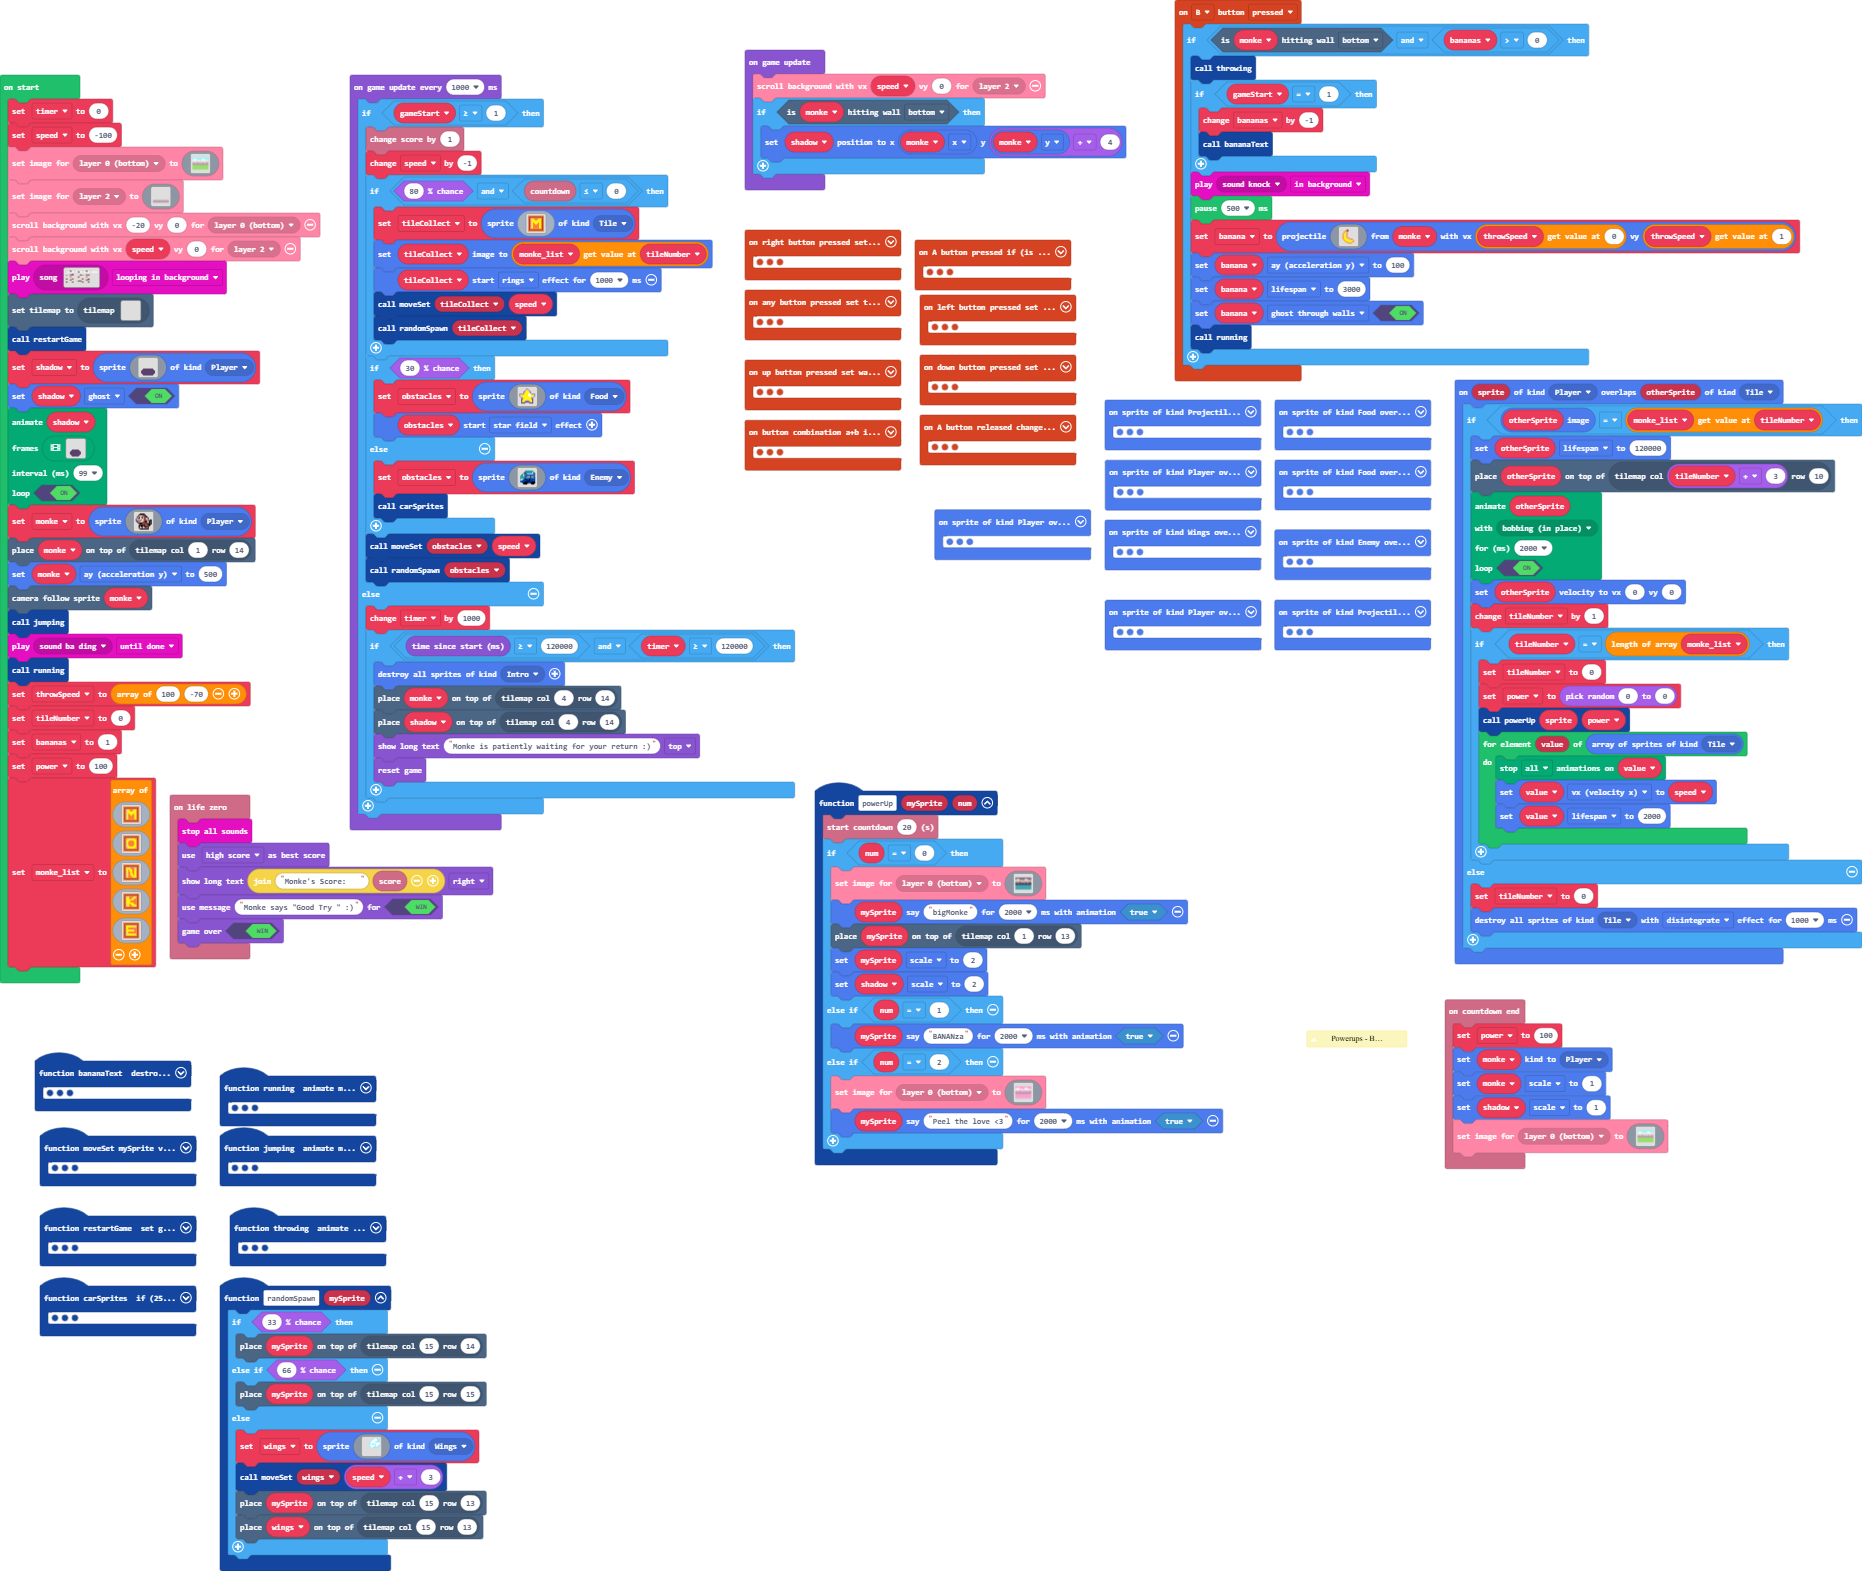
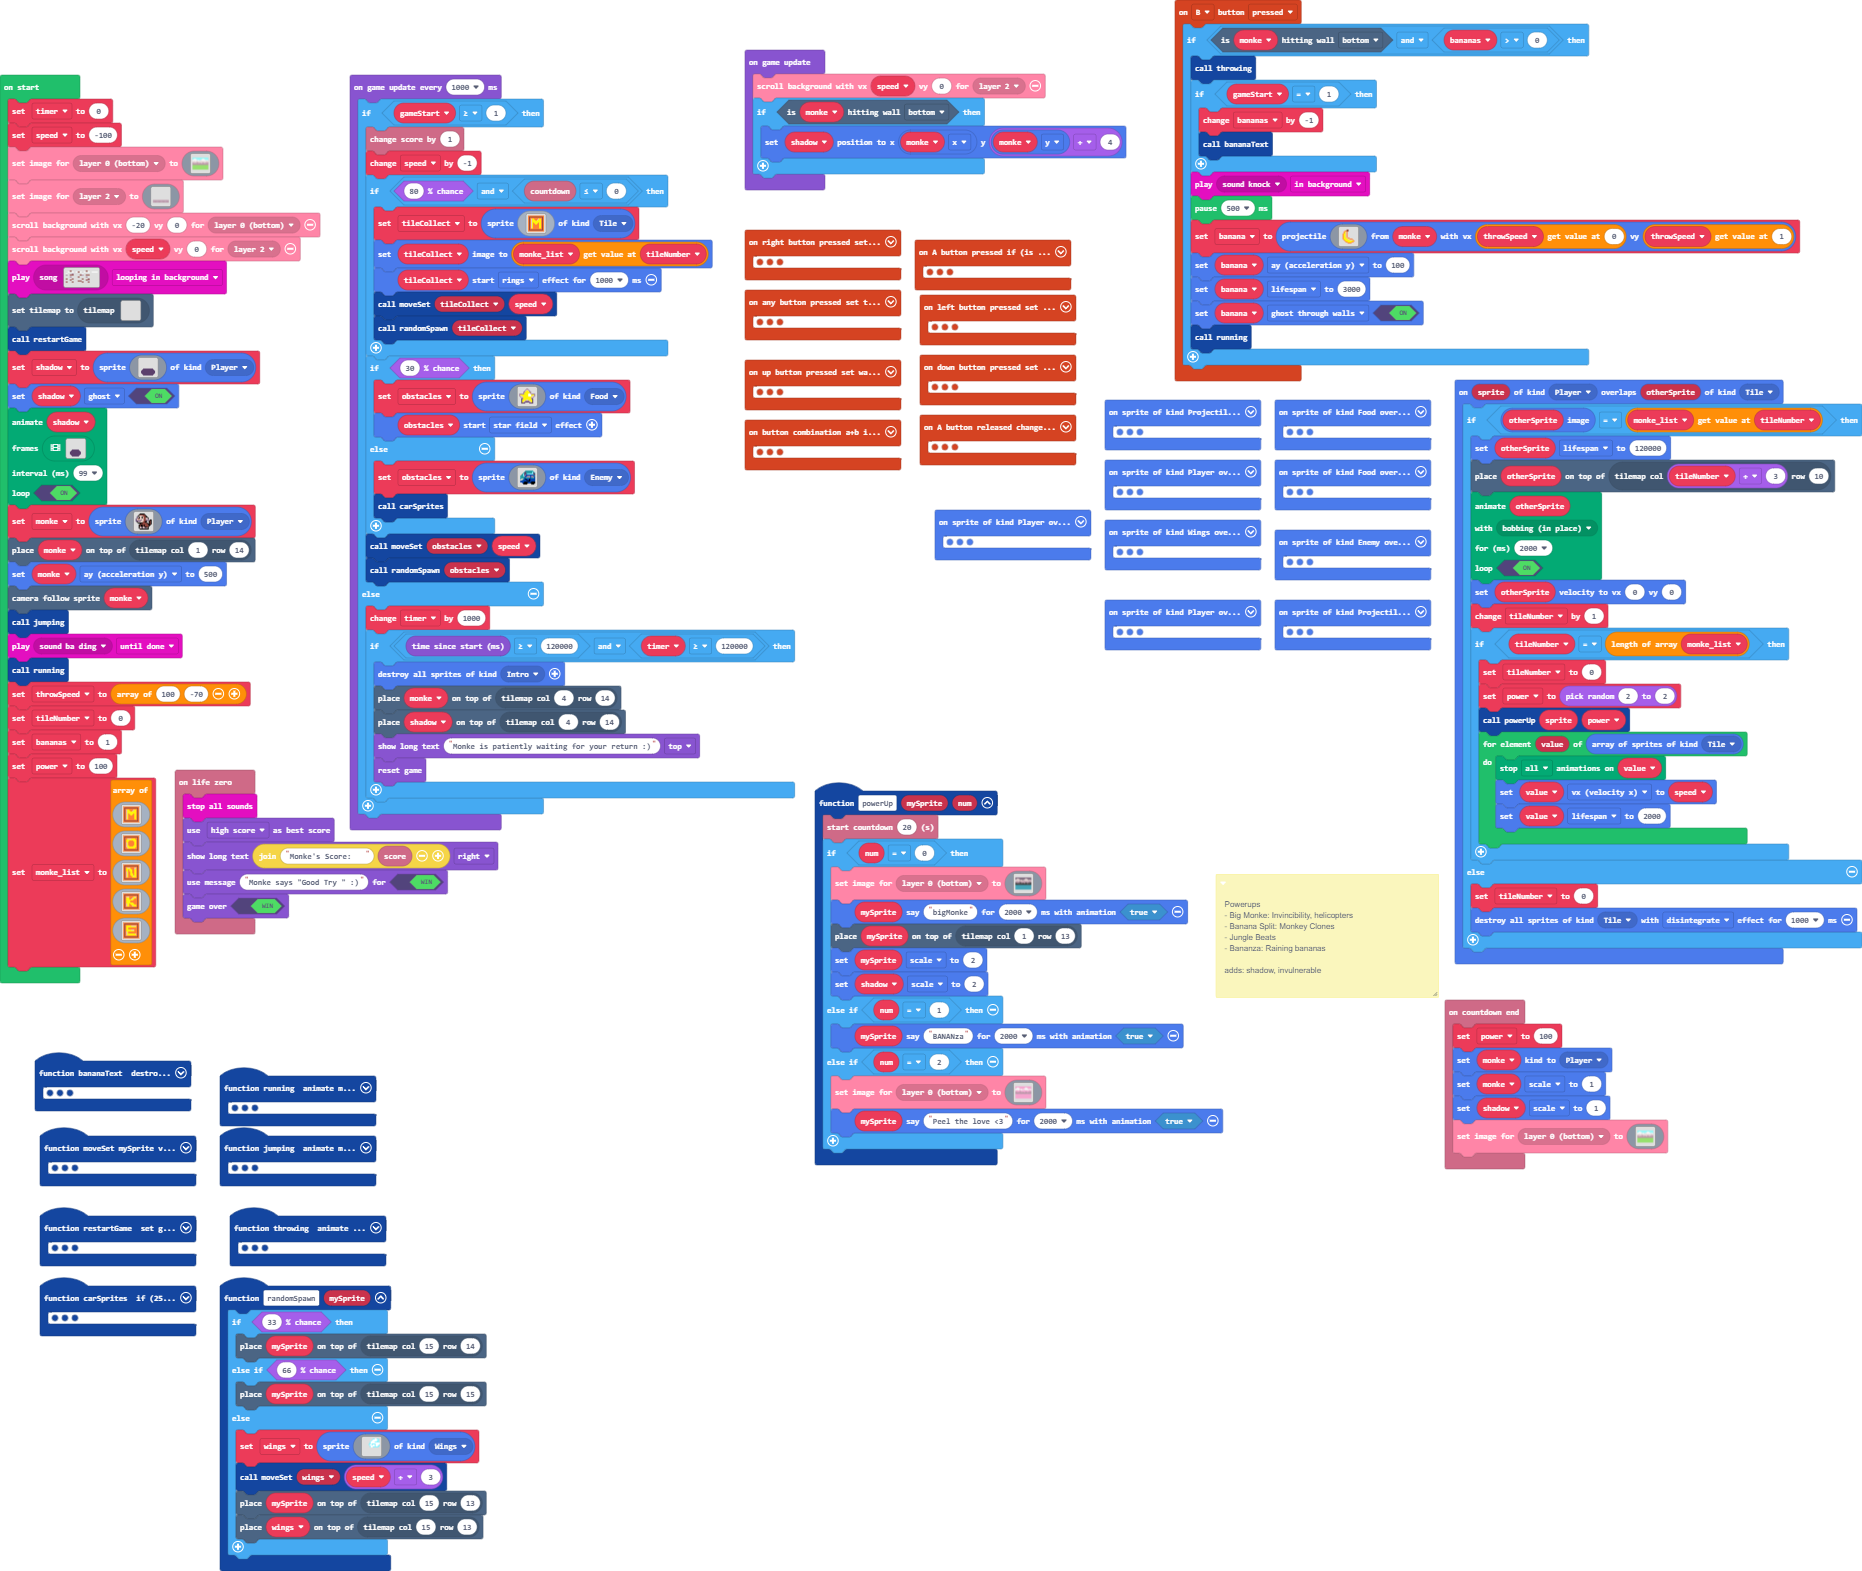
Update main.blocks, main.ts

Changed region(s): [[0.0934, 0.4679, 0.2803, 0.6238], [0.6541, 0.5302, 0.7787, 0.6862], [0.7787, 0.655, 0.841, 0.7174]]

diff --git a/main.ts b/main.ts
@@ -9,6 +9,7 @@ sprites.onOverlap(SpriteKind.Player, SpriteKind.Enemy, function (sprite, otherSp
     if (power2 == 0) {
         sprites.destroy(otherSprite)
         bananas += 1
+        bananaText()
     } else {
         info.changeLifeBy(-1)
         info.changeScoreBy(-1)
@@ -666,21 +667,6 @@ function moveSet (mySprite: Sprite, velocity: number) {
     mySprite.setFlag(SpriteFlag.GhostThroughWalls, true)
     mySprite.lifespan = 3000
 }
-/**
- * Powerups
- * 
- * - Big Monke: Invincibility, helicopters
- * 
- * - Banana Split: Monkey Clones
- * 
- * - Peeling the love: bananas turn things into life hearts
- * 
- * - Jungle Beats
- * 
- * - Bananza: Raining bananas
- * 
- * adds: shadow, invulnerable
- */
 info.onCountdownEnd(function () {
     power2 = 100
     monke.setKind(SpriteKind.Player)
@@ -885,6 +871,19 @@ controller.down.onEvent(ControllerButtonEvent.Pressed, function () {
     pause(200)
     shadow.y = 252
 })
+/**
+ * Powerups
+ * 
+ * - Big Monke: Invincibility, helicopters
+ * 
+ * - Banana Split: Monkey Clones
+ * 
+ * - Jungle Beats
+ * 
+ * - Bananza: Raining bananas
+ * 
+ * adds: shadow, invulnerable
+ */
 function powerUp (mySprite: Sprite, num: number) {
     info.startCountdown(20)
     if (num == 0) {
@@ -1379,7 +1378,7 @@ sprites.onOverlap(SpriteKind.Player, SpriteKind.Tile, function (sprite, otherSpr
         tileNumber += 1
         if (tileNumber == monke_list.length) {
             tileNumber = 0
-            power2 = randint(0, 0)
+            power2 = randint(2, 2)
             powerUp(sprite, power2)
             for (let value of sprites.allOfKind(SpriteKind.Tile)) {
                 animation.stopAnimation(animation.AnimationTypes.All, value)
